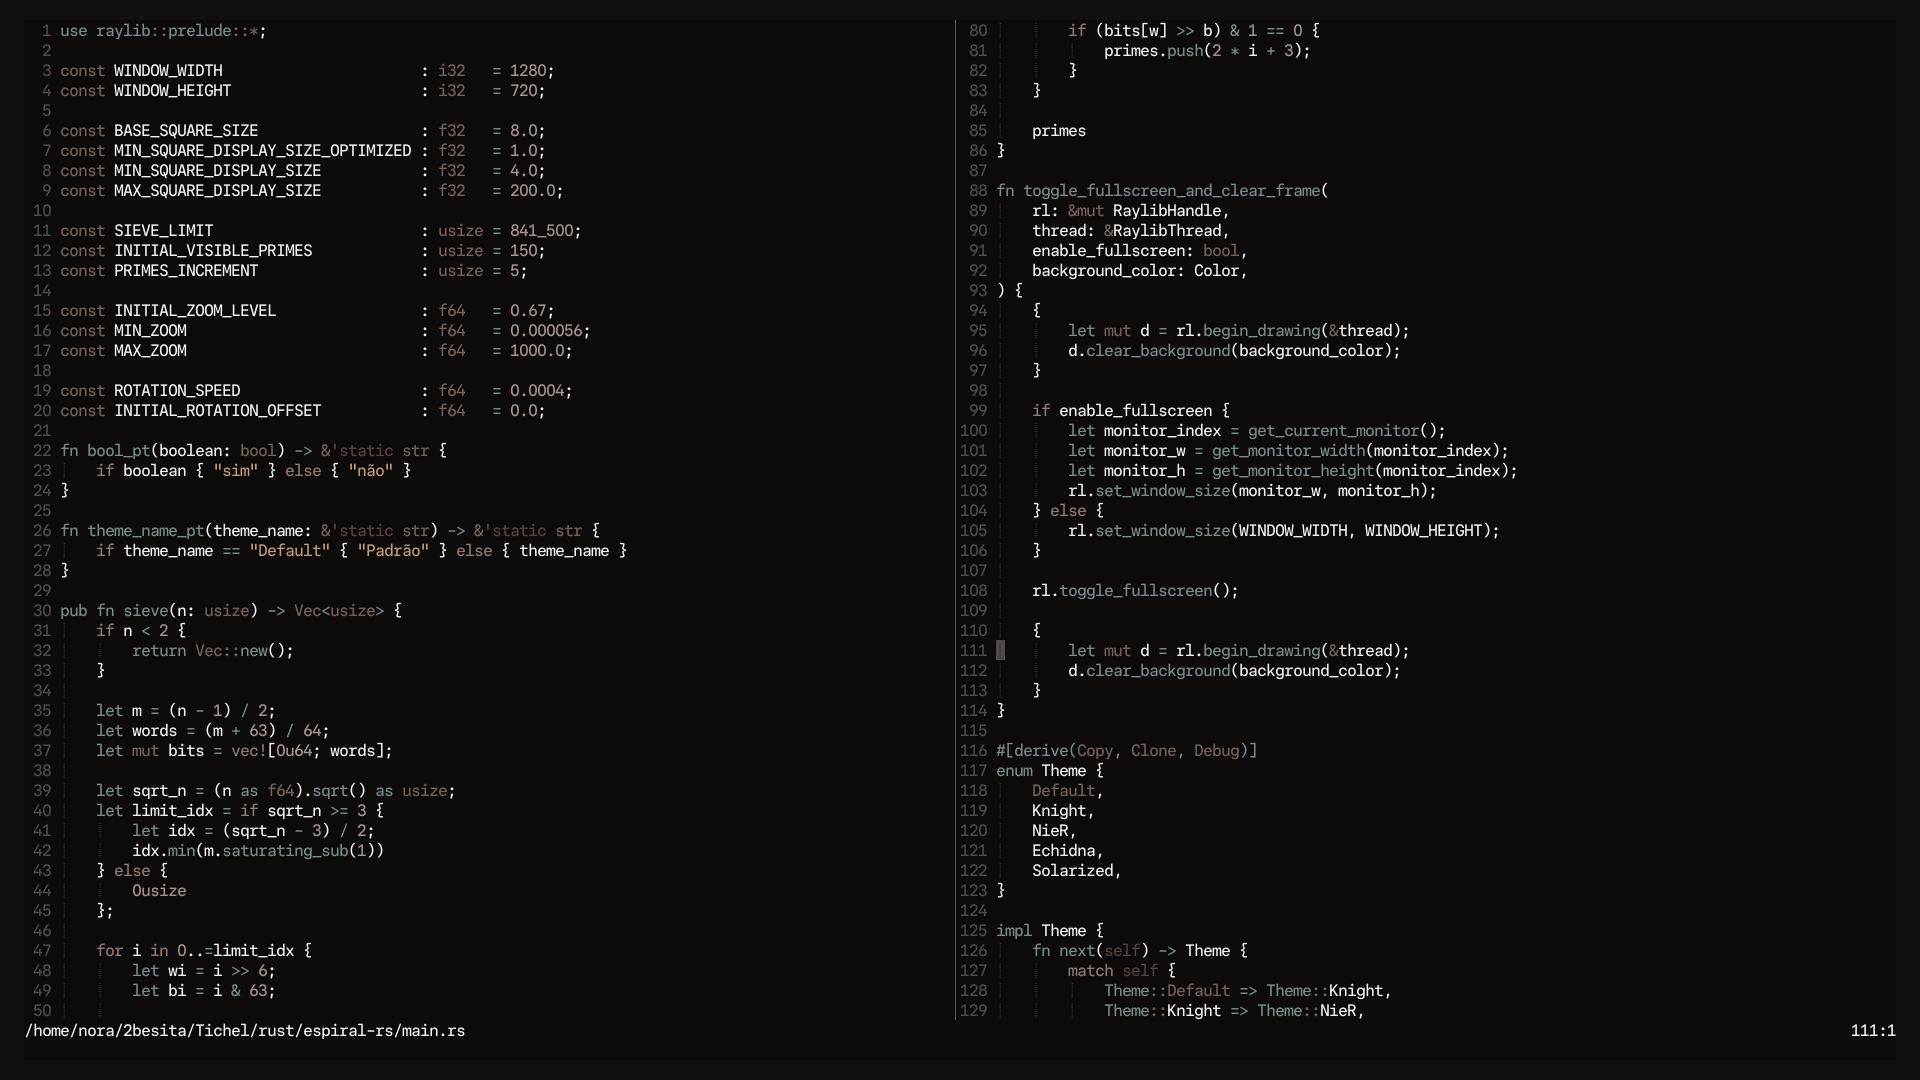
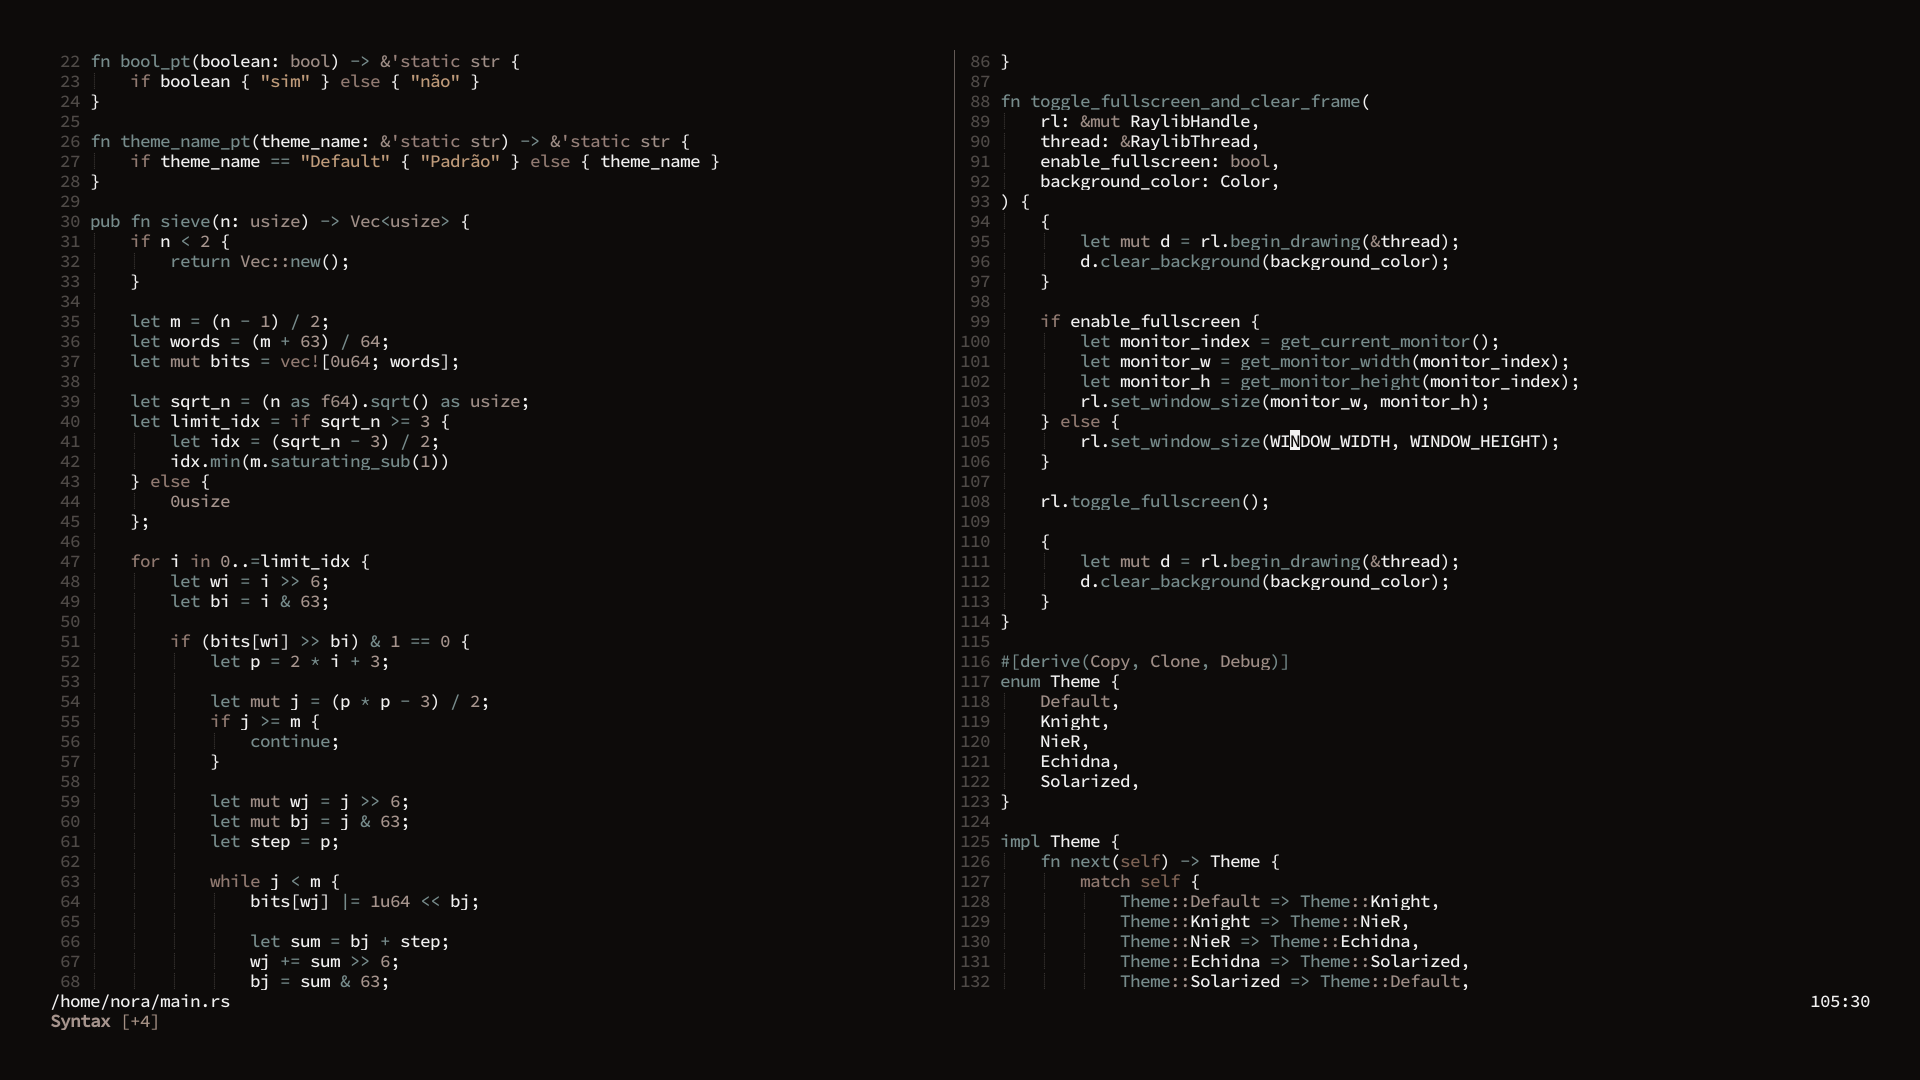
updated cocoa colorschemes, ports and readme

diff --git a/README.md b/README.md
@@ -4,11 +4,14 @@
 Echidna is a theme collection for neovim focused on low saturation and
 contrast, aiming to an almost monochromatic vibe, each theme featuring only a
 main color with its variations, one secondary color and a rarely seen color for
-errors (so you don't think errors are part of the code :D).<br/>
+errors (so you don't think errors are part of the code).<br/>
+
+The themes are inspired by plants (Amni Majus, Theobroma Cocoa, Lycoris Radiata
+and Wisteria Sinensis, respectively) and there's a high chance more will be added.<br/>
 </p>
 
-###### *I don't use plugins, so there's still no plugin implementation and I don't plan on doing it. Feel free to make a pr*
-###### *I also don't use treesitter, so the themes may look different than on preview*</br>
+###### *I don't use plugins, so there's no direct plugin support and I don't plan on doing it, feel free to make a pr*
+
 
 ## Previews
 <details> 
